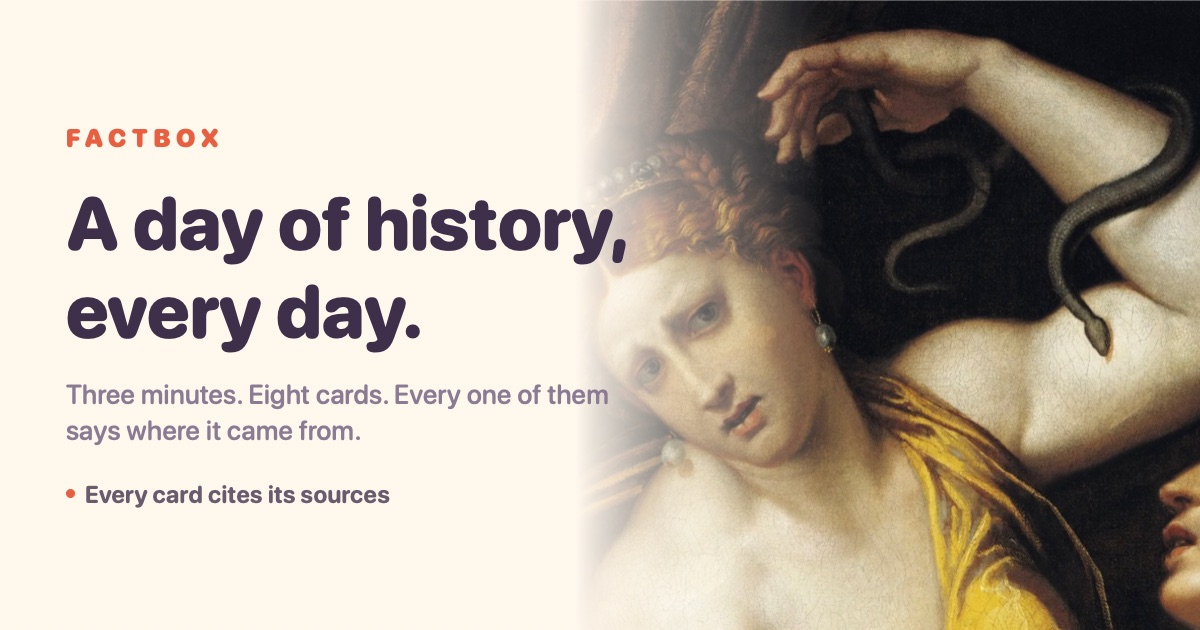
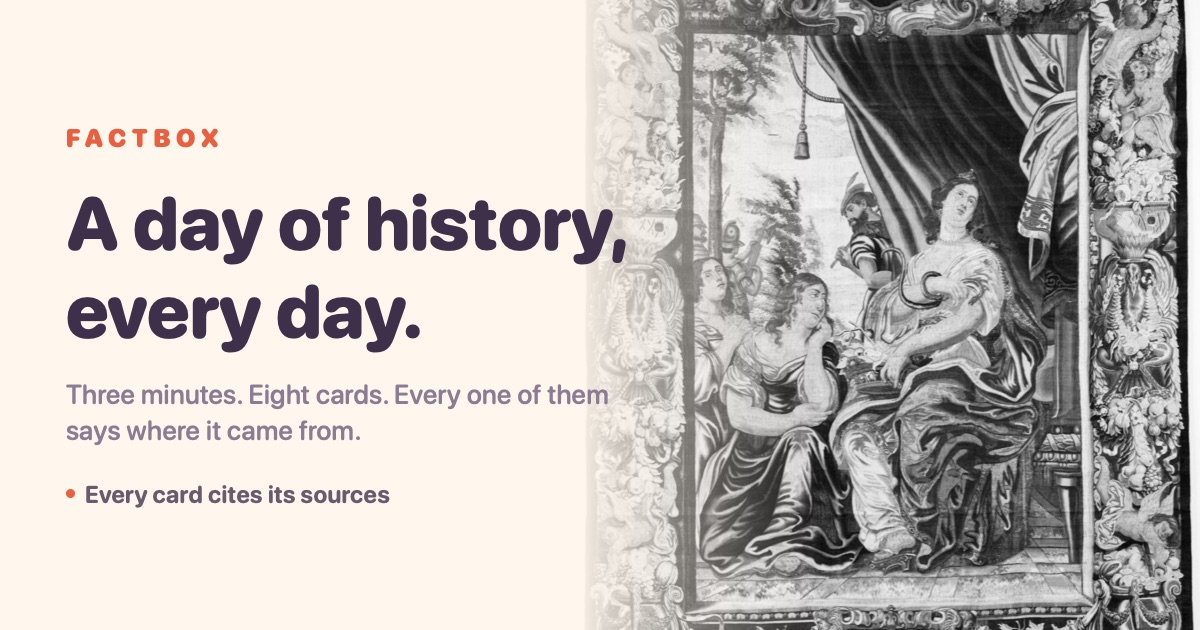
Replace the painting with a CC0 image we can actually account for
Both artwork files in this project were screenshots. Their embedded XMP
says so literally — exif:UserComment "Screenshot" — and one of them was
live on this site, credited as if it had been sourced. Where either came
from is unrecoverable, which for an app whose whole differentiator is
citing sources is not a small thing.

Checking the Actium painting we had also turned up two errors in our own
credit line: we silently truncated the title, and "London c. 1700" for
the artist's death was invented — the sources say England, with no date.
Royal Museums Greenwich additionally asserts copyright over photographs
of its collection and licenses them commercially, so the Wikimedia
PD-Art files for it rest on a doctrine the holding institution publicly
rejects. Not a fight worth picking over one image.

The replacement is a Flemish tapestry, The Death of Cleopatra, designed
by Justus van Egmont and woven by Geraert van der Strecken in Brussels
between 1650 and 1677, from the Metropolitan Museum of Art. The Met
released it under CC0 through its Open Access programme and donated it
to Wikimedia Commons — an affirmative grant rather than an argument.
Provenance, retrieval date and source URLs are recorded alongside the
file in img/_provenance/.

It is also the better object. The snake is on her arm, a basket sits at
her knee, and the Latin woven into the cartouche above her reads
"Cleopatra, lest she be led in triumph, brings death upon herself by the
[…]

diff --git a/story.html b/story.html
@@ -1990,7 +1990,7 @@ html.no-motion .s-pharos .phr-streaks { animation: none; transform: none; opacit
   <div class="frame">
     <div class="mat">
       <div class="win">
-        <img class="plate" src="img/painting.jpg" alt="">
+        <img class="plate" src="img/tapestry.jpg" alt="">
         <div class="warm"></div>
         <div class="wash"></div>
         <div class="grain"></div>
@@ -2491,10 +2491,10 @@ const STORIES = {
       { scene:'s-basket', h:'Some historians think poison.',
         b:'A palace with physicians on hand had quieter options than a snake nobody could produce.',
         src:['Christoph Schäfer, <i>Kleopatra</i> — WBG, 2006 — argues for a drug mixture rather than a snake', 'Joyce Tyldesley, <i>Cleopatra: Last Queen of Egypt</i> — Profile Books, 2008', 'Duane W. Roller, <i>Cleopatra: A Biography</i> — Oxford University Press, 2010'] },
-      { scene:'s-painting', h:'Painters put it in anyway.',
-        b:'For four hundred years the snake has been the whole point of the picture. This one is from the 1600s.',
-        note:'Detail of an old-master painting of the death of Cleopatra. We have not been able to verify the artist, the date or the holding collection, so we are not going to name one.',
-        src:['Walker &amp; Higgs (eds), <i>Cleopatra of Egypt: From History to Myth</i> — British Museum Press, 2001', 'Mary Hamer, <i>Signs of Cleopatra</i> — Routledge, 1993'] },
+      { scene:'s-painting', h:'Weavers put it in anyway.',
+        b:'This Flemish tapestry was made around 1650. The snake is on her arm, and the Latin woven above her says she took it so she would not be led through Rome.',
+        note:'The Death of Cleopatra, designed by Justus van Egmont, woven by Geraert van der Strecken, Brussels, 1650\u201377. The Metropolitan Museum of Art, released under CC0.',
+        src:['Walker &amp; Higgs (eds), <i>Cleopatra of Egypt: From History to Myth</i> \u2014 British Museum Press, 2001', 'Mary Hamer, <i>Signs of Cleopatra</i> \u2014 Routledge, 1993', 'The Metropolitan Museum of Art \u2014 collection record, Open Access (CC0)'] },
       { scene:'s-pharos', h:'She died at thirty-nine.',
         b:'Egypt became a Roman province, and about 275 years of Ptolemaic rule ended with her.',
         src:['Duane W. Roller, <i>Cleopatra: A Biography</i> — Oxford University Press, 2010', 'Cassius Dio, <i>Roman History</i> — Books 50–51, early 3rd century AD', 'Joyce Tyldesley, <i>Cleopatra: Last Queen of Egypt</i> — Profile Books, 2008'] },
